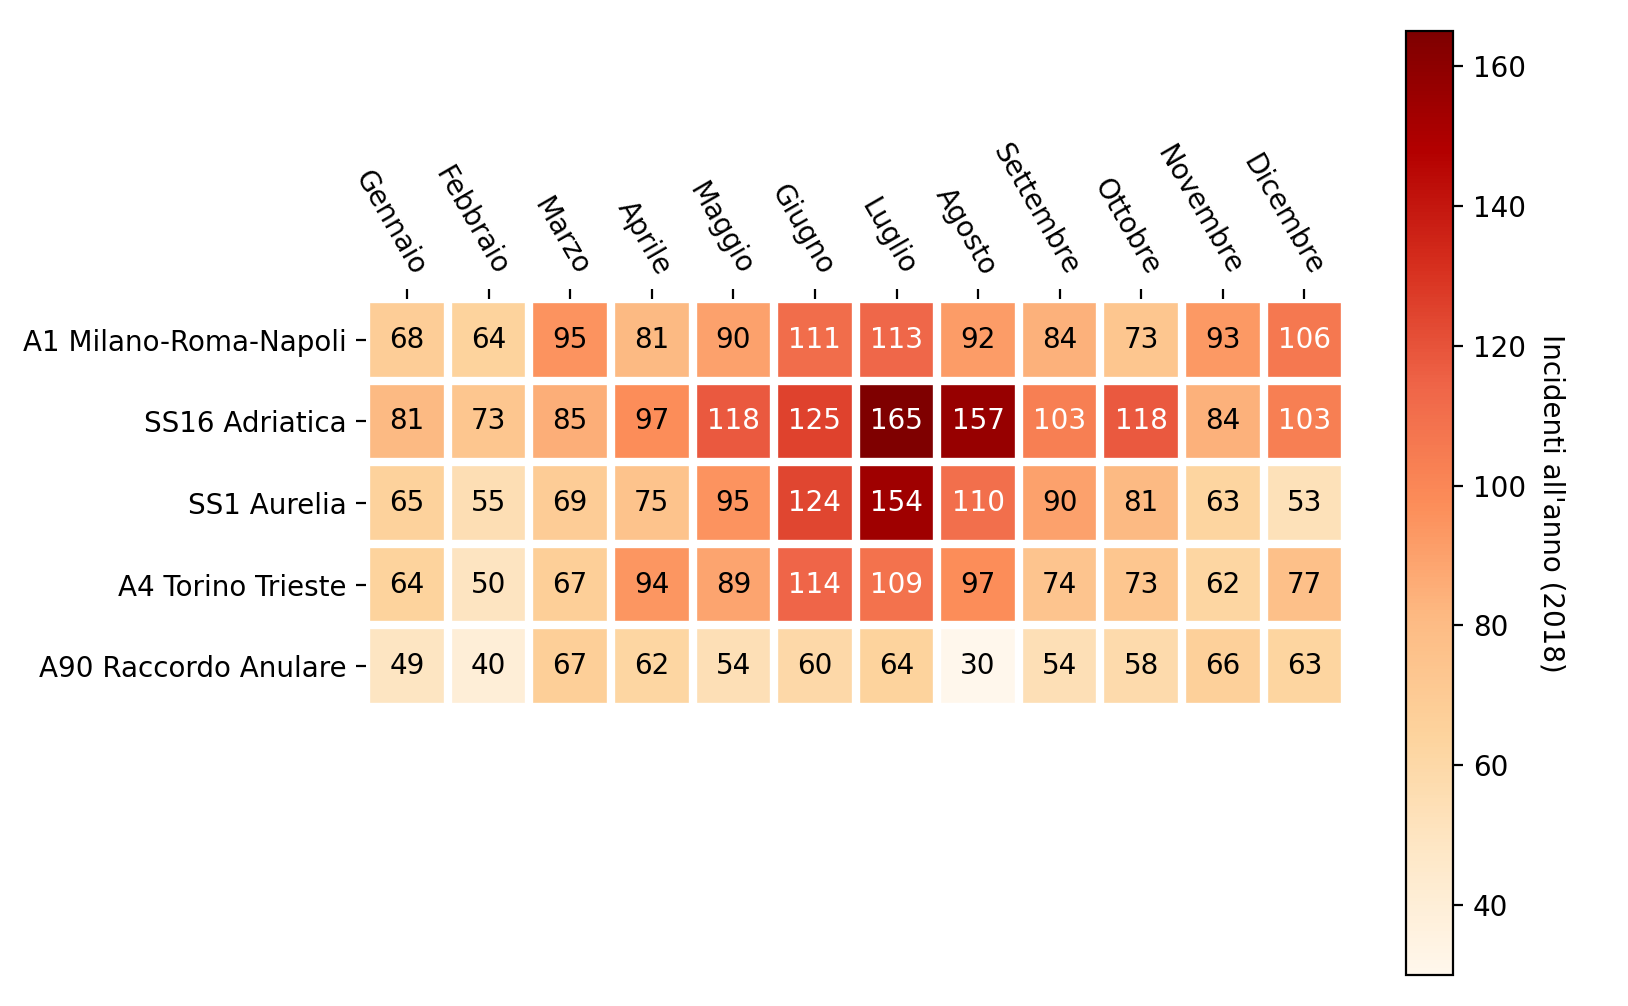
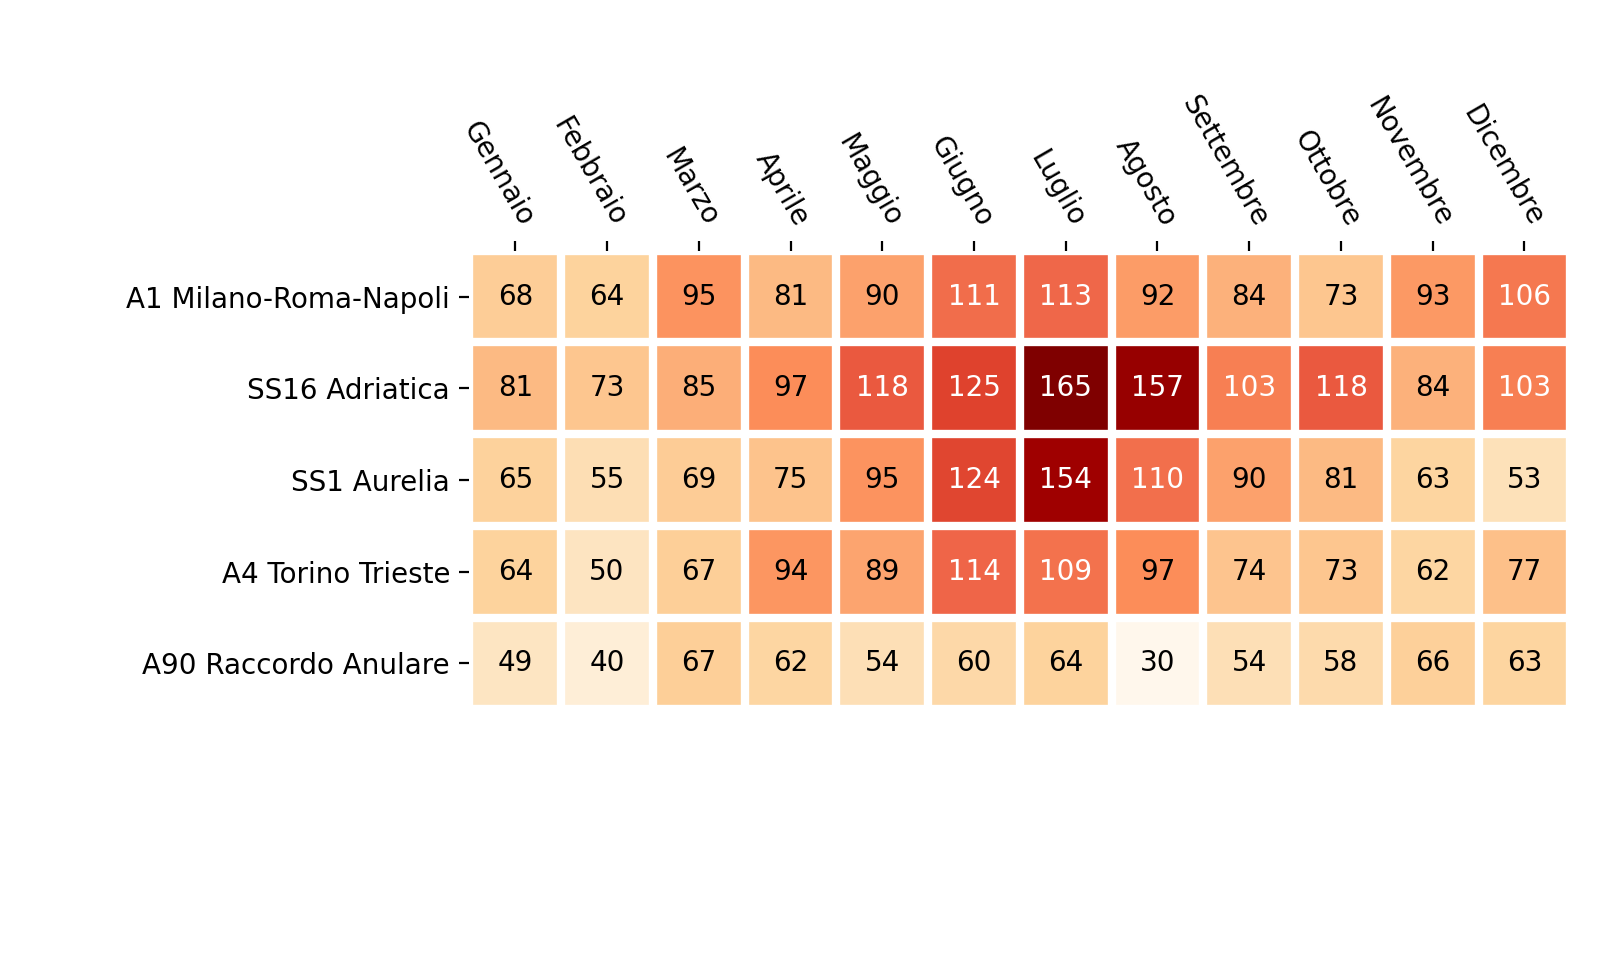
modifiche a grafo

diff --git a/src/incidenti/incidenti_aci/autostrade/mesi_autostrade.py b/src/incidenti/incidenti_aci/autostrade/mesi_autostrade.py
@@ -47,7 +47,7 @@ df = pd.DataFrame(
     )
 
 fig, ax = plt.subplots()
-im, cbar = H.heatmap(df, df.index, df.columns, ax=ax, cmap="OrRd", cbarlabel="Incidenti all'anno (2018)", xticks_rotated=True)
+im = H.heatmap(df, df.index, df.columns, ax=ax, cmap="OrRd", xticks_rotated=True, cbar_visible=False)
 texts = H.annotate_heatmap(im, valfmt="{x}")
 
 fig.tight_layout()
